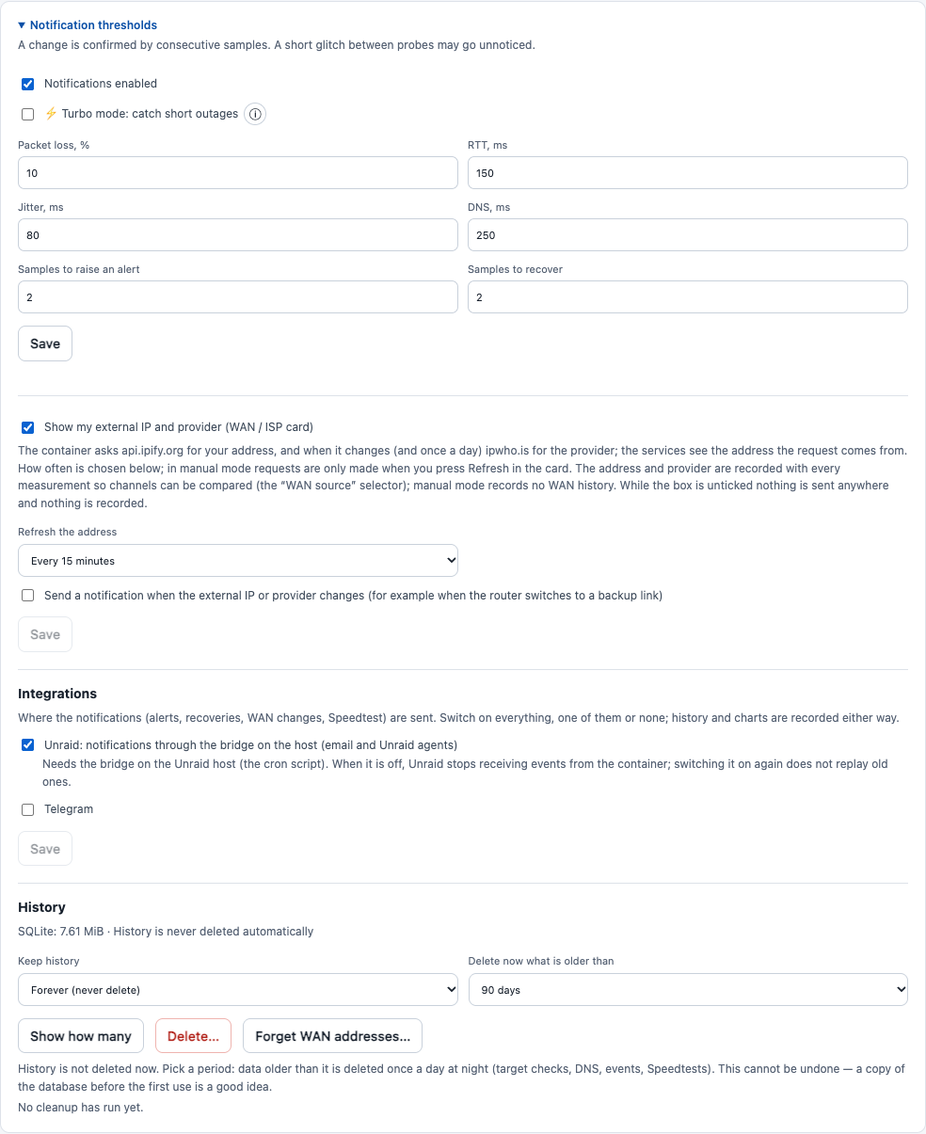
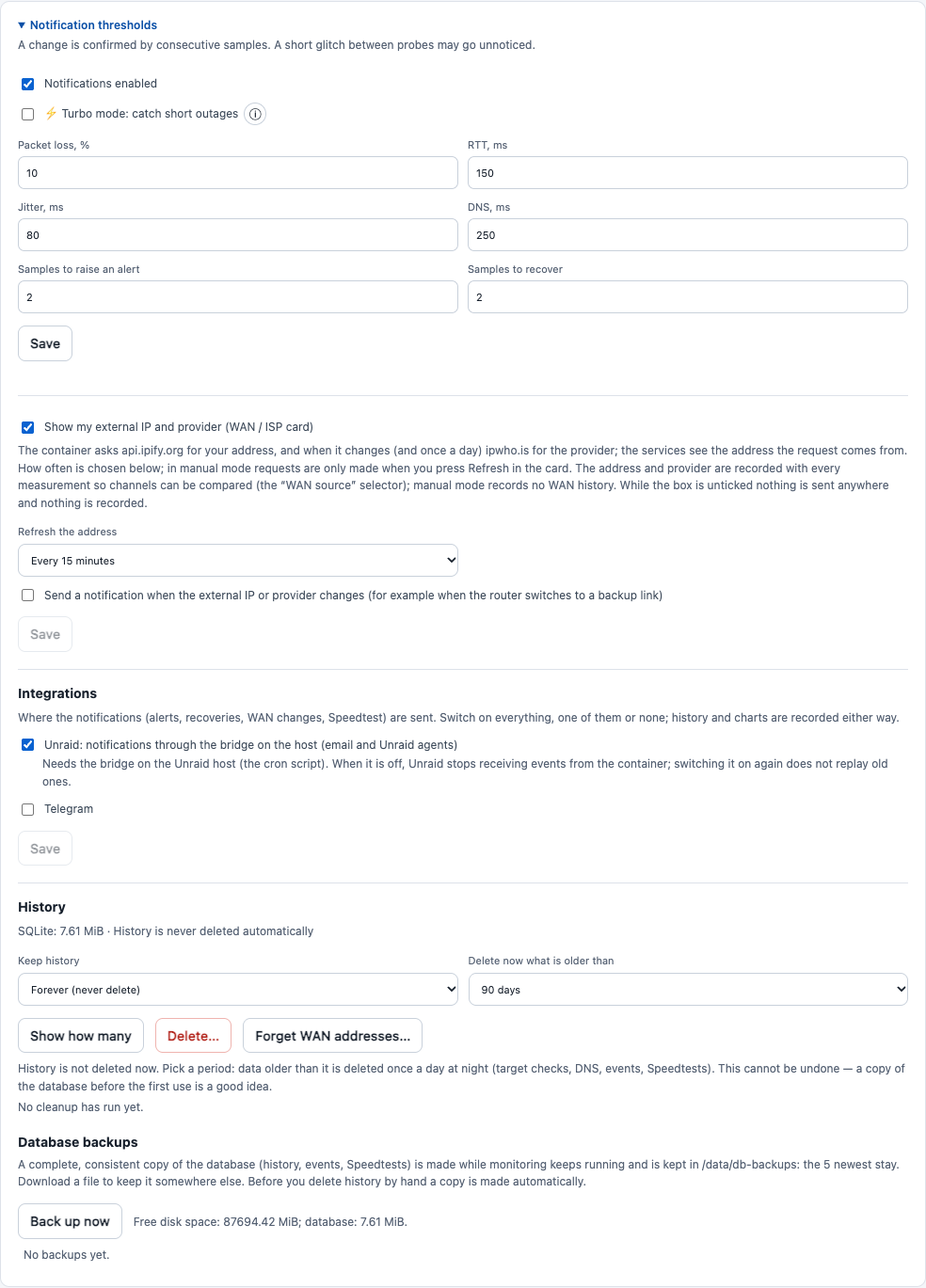
WAN source in the loss report and the compare chart, and a one-row phone menu
GET /api/loss takes wan_ip / wan_isp and always returns wan_sources (samples, samples with loss, average and peak per source for the
window, whatever the filter); the report shows that table, a click selects the source for the whole page. The Turbo outages are not
split by source, and the page says so. The compare chart gets "One line per WAN source": every picked series (summary or target)
is requested once per source (up to four) and drawn as its own line.

In the NetProbe style the pinned menu on a phone is one row now (the mark instead of the name, links in a row): about 47 px instead
of 88-100; the nav test checks that it stays under 64 px with every link visible. Tests and screenshots updated.

diff --git a/src/index.html b/src/index.html
@@ -187,8 +187,10 @@
     @media(max-width:1250px) { .metrics{grid-template-columns:repeat(3,minmax(0,1fr))} .grid-content{grid-template-columns:minmax(0,1fr) 305px} }
     /* phones and tablets: the menu bar stays pinned to the top (a block layout lets it stick for the whole page) */
     @media(max-width:930px) { html{scroll-padding-top:var(--stick-h,0px)} .layout{display:block} aside{position:sticky;top:0;z-index:30;height:auto;padding:13px 18px;flex-direction:row;align-items:center;justify-content:space-between} .brand{padding:0;font-size:16px} .brand small,.nav-head,.side-foot{display:none} nav{display:flex;flex-wrap:wrap} nav a{padding:7px 10px;font-size:12px} .nav-icon{display:none} main{padding:20px 16px} .grid-content{grid-template-columns:1fr} }
+    /* a phone: the pinned menu is one row (the name goes, the mark stays), so it takes ~56 px instead of ~100 */
+    @media(max-width:560px) { aside{padding:8px 12px;gap:8px} .brand{flex:0 0 auto} .brand>span:last-child{display:none} nav{flex-wrap:nowrap;justify-content:flex-end;min-width:0;overflow-x:auto;scrollbar-width:none} nav::-webkit-scrollbar{display:none} nav a{padding:6px 8px;white-space:nowrap} }
     @media(max-width:700px) { .path-row{grid-template-columns:1fr;gap:0} .link{grid-template-columns:auto 1fr;justify-items:start;align-items:center;gap:10px;padding:6px 0 6px 30px} .link-line{width:0;height:20px;border-top:0!important;border-left:2px dashed var(--unk);order:-1} .link[data-s="ok"] .link-line{border-left:2px solid var(--ok)} .link[data-s="warn"] .link-line{border-left-color:var(--warn)} .link[data-s="bad"] .link-line{border-left-color:var(--bad)} .link-cap{text-align:left} }
-    @media(max-width:560px) { .metrics{grid-template-columns:repeat(2,minmax(0,1fr));gap:9px} .metric{padding:15px} .metric-val{font-size:25px} .main-status{padding:16px;align-items:flex-start} .status-right{display:none} .card{padding:17px} .head h1{font-size:23px} .flex-tabs{max-width:100%;overflow-x:auto} .table{min-width:0} .table th:nth-child(3),.table td:nth-child(3){display:none} .metrics .metric:first-child{grid-column:span 2} .chart-select{width:100%} .head-actions .tag{max-width:100%;white-space:normal} .head-actions{width:100%} .setting-grid{gap:9px} .brand{margin-right:15px} aside{flex-wrap:wrap;gap:12px} nav a{padding:5px 8px} }
+    @media(max-width:560px) { .metrics{grid-template-columns:repeat(2,minmax(0,1fr));gap:9px} .metric{padding:15px} .metric-val{font-size:25px} .main-status{padding:16px;align-items:flex-start} .status-right{display:none} .card{padding:17px} .head h1{font-size:23px} .flex-tabs{max-width:100%;overflow-x:auto} .table{min-width:0} .table th:nth-child(3),.table td:nth-child(3){display:none} .metrics .metric:first-child{grid-column:span 2} .chart-select{width:100%} .head-actions .tag{max-width:100%;white-space:normal} .head-actions{width:100%} .setting-grid{gap:9px} }
 
     /* ===== Style "unifi": calm neutral palette, one blue accent, flat bordered cards, icon rail ===== */
     html[data-style="unifi"] {
@@ -542,6 +544,9 @@
           <div class="card-head"><div><h2 data-i18n="loss.title">Потери пакетов за период</h2><div class="card-sub" id="lossWindow"></div></div><label class="pick"><span data-i18n="loss.target">Цель</span><select id="lossTarget" class="chart-select"><option value="">…</option></select></label></div>
           <div class="loss-sum" id="lossSummary"></div>
           <div class="table-wrap"><table class="table"><thead><tr><th data-i18n="th.target2">Цель</th><th data-i18n="loss.th.samples">Проб</th><th data-i18n="loss.th.lossy">С потерями</th><th data-i18n="loss.th.avg">Средние / макс.</th><th data-i18n="loss.th.eps">Эпизодов</th></tr></thead><tbody id="lossTargets"><tr><td colspan="5" class="muted">…</td></tr></tbody></table></div>
+          <div id="lossWansBox" hidden><h3 class="loss-h" data-i18n="loss.wans">По WAN-источникам</h3>
+            <div class="table-wrap"><table class="table"><thead><tr><th data-i18n="wan.source">WAN-источник</th><th data-i18n="loss.th.samples">Проб</th><th data-i18n="loss.th.lossy">С потерями</th><th data-i18n="loss.th.avg">Средние / макс.</th></tr></thead><tbody id="lossWans"></tbody></table></div>
+            <p class="card-sub" data-i18n="loss.wansNote" style="margin:4px 0 0"></p></div>
           <h3 class="loss-h" data-i18n="loss.episodes">Эпизоды потерь</h3>
           <div class="loss-episodes" id="lossEpisodes"></div><div class="section-status" id="lossStatus" role="status"></div>
           <h3 class="loss-h" data-i18n="loss.outages">Короткие обрывы (Turbo)</h3>
@@ -627,7 +632,7 @@
       'tab.loss':'Потери','th.target2':'Цель','loss.goto':'Потери за период →','loss.title':'Потери пакетов за период','loss.target':'Цель','loss.all':'Все ping-цели','loss.avg':'Средние потери','loss.max':'Максимум','loss.lossy':'Проб с потерями','loss.eps':'Эпизодов',
       'loss.episodes':'Эпизоды потерь','loss.none':'Потерь за период нет','loss.noSamples':'Нет замеров за период','loss.unavailable':'Отчёт о потерях недоступен','loss.th.samples':'Проб','loss.th.lossy':'С потерями','loss.th.avg':'Средние / макс.','loss.th.eps':'Эпизодов',
       'loss.show':'показать на графике','loss.truncated':'Показаны последние {n} эпизодов; сводка учитывает все','loss.rowsCapped':'Период слишком велик: часть проб не обработана, отчёт неполный. Выберите период короче или одну цель.','loss.samples':'проб: {n}','loss.ofSamples':'из {n}','dur.s':'{n} с','dur.m':'{n} мин','dur.h':'{h} ч {m} мин',
-      'unit.ms':'мс','cmp.toggle':'Сравнение','cmp.summary':'Сводка (все цели)','cmp.ping':'Ping-цели','cmp.dns':'DNS-серверы','cmp.allDns':'Все DNS','cmp.clear':'Сбросить','cmp.selected':'Источники: {n}','cmp.none':'Для этого выбора нет доступных рядов','cmp.title':'Сравнение · рядов: {n}','cmp.sub':'Несколько метрик и целей на одном графике','cmp.sharedAxis':'Общая шкала, {u}','cmp.ownScale':'У каждого ряда своя шкала: 100% = максимум ряда за период (реальные значения — в легенде и подсказке)','cmp.max':'макс. {v}','cmp.capped':'Показаны первые {n} рядов','cmp.last':'сейчас',
+      'unit.ms':'мс','cmp.toggle':'Сравнение','cmp.byWan':'Одна линия на каждый WAN-источник','cmp.summary':'Сводка (все цели)','cmp.ping':'Ping-цели','cmp.dns':'DNS-серверы','cmp.allDns':'Все DNS','cmp.clear':'Сбросить','cmp.selected':'Источники: {n}','cmp.none':'Для этого выбора нет доступных рядов','cmp.title':'Сравнение · рядов: {n}','cmp.sub':'Несколько метрик и целей на одном графике','cmp.sharedAxis':'Общая шкала, {u}','cmp.ownScale':'У каждого ряда своя шкала: 100% = максимум ряда за период (реальные значения — в легенде и подсказке)','cmp.max':'макс. {v}','cmp.capped':'Показаны первые {n} рядов','cmp.last':'сейчас',
       'topbar.network':'Сеть','net.title':'Интернет','net.speedLink':'Speedtest','thr.title':'Пороги уведомлений','thr.configure':'Настроить',
       'up.title':'Работа интернета','up.uptime':'Uptime','up.tip':'Доля интервалов без сильных потерь/обрыва; интервалы без данных не учитываются','up.ok':'без потерь','up.warn':'были потери пакетов (до {v}%)','up.bad':'сильные потери или обрыв ({v}%)','up.gap':'нет данных',
       'chk.title':'Связность','chk.sub':'Доля успешных замеров за период','chk.bridge':'Мост Docker','chk.router':'Роутер','chk.internet':'Интернет','chk.dns':'DNS',
@@ -682,7 +687,7 @@
       'turbo.cost':'Цена: около 9 МБ ICMP-трафика в сутки и пара коротких процессов ping каждые 5 секунд.',
       'turbo.risk':'Риск ложных тревог: некоторые провайдеры ограничивают ICMP. Чтобы отсечь это, обрыв засчитывается, только если ВСЕ интернет-адреса не ответили два раунда подряд.',
       'turbo.default':'По умолчанию выключен. Настройка сохраняется и переживает перезапуск контейнера.',
-      'loss.outages':'Короткие обрывы (Turbo)','loss.noOutages':'Turbo-обрывов за период нет','out.internet':'Обрыв интернета','out.router':'Роутер не отвечал','out.open':'идёт сейчас',
+      'loss.outages':'Короткие обрывы (Turbo)','loss.wans':'По WAN-источникам','loss.wansNote':'Нажмите на строку, чтобы показать отчёт и графики только для этого источника. Короткие обрывы (Turbo) ниже не делятся по источникам.','loss.noOutages':'Turbo-обрывов за период нет','out.internet':'Обрыв интернета','out.router':'Роутер не отвечал','out.open':'идёт сейчас',
       'out.st.sent':'уведомление отправлено','out.st.pending':'ждёт отправки','out.st.covered':'тревога уже была от основного мониторинга','out.st.off':'уведомления выключены','out.st.capped':'лимит 3 в час','out.st.counted':'учтён в следующем сообщении','out.st.stopped':'Turbo выключен во время обрыва','out.st.open':'',
       'set.invalid':'Проверьте значения порогов.','set.saving':'Сохранение…','set.saved':'Сохранено на сервере.','set.notSaved':'Не сохранено: {e}','set.dirty':'Изменения ещё не сохранены.','set.storage':'SQLite: {mb} MiB · {ret}','set.noRetention':'Без автоматического удаления истории','set.retention':'Хранение: {d} дней','set.noStorage':'Хранилище: нет данных API',
       'diag.title':'Диагностика','diag.sub':'Логи и активные настройки NetProbe','diag.logs':'Логи приложения','diag.config':'Конфигурация (без секретов)','diag.logHint':'Для просмотра разверните раздел.','diag.noLines':'В текущем буфере нет строк.','diag.lastRead':'Последнее чтение · {when}','diag.logsUnavailable':'Логи недоступны · {e}','diag.configUnavailable':'Конфигурация API недоступна.',
@@ -693,7 +698,7 @@
       'tab.loss':'Loss','th.target2':'Target','loss.goto':'Packet loss report →','loss.title':'Packet loss in the period','loss.target':'Target','loss.all':'All ping targets','loss.avg':'Average loss','loss.max':'Peak','loss.lossy':'Samples with loss','loss.eps':'Episodes',
       'loss.episodes':'Loss episodes','loss.none':'No packet loss in this period','loss.noSamples':'No samples in this period','loss.unavailable':'Packet loss report unavailable','loss.th.samples':'Samples','loss.th.lossy':'With loss','loss.th.avg':'Average / peak','loss.th.eps':'Episodes',
       'loss.show':'show on chart','loss.truncated':'Showing the latest {n} episodes; the summary counts all of them','loss.rowsCapped':'The period is too long: some samples were not processed and the report is incomplete. Pick a shorter period or one target.','loss.samples':'samples: {n}','loss.ofSamples':'of {n}','dur.s':'{n} s','dur.m':'{n} min','dur.h':'{h} h {m} min',
-      'unit.ms':'ms','cmp.toggle':'Compare','cmp.summary':'Summary (all targets)','cmp.ping':'Ping targets','cmp.dns':'DNS servers','cmp.allDns':'All DNS','cmp.clear':'Clear','cmp.selected':'Sources: {n}','cmp.none':'No series are available for this selection','cmp.title':'Comparison · {n} series','cmp.sub':'Several metrics and targets on one chart','cmp.sharedAxis':'Shared scale, {u}','cmp.ownScale':'Each series has its own scale: 100% = the series maximum in the period (real values are in the legend and tooltip)','cmp.max':'max {v}','cmp.capped':'Showing the first {n} series','cmp.last':'now',
+      'unit.ms':'ms','cmp.toggle':'Compare','cmp.byWan':'One line per WAN source','cmp.summary':'Summary (all targets)','cmp.ping':'Ping targets','cmp.dns':'DNS servers','cmp.allDns':'All DNS','cmp.clear':'Clear','cmp.selected':'Sources: {n}','cmp.none':'No series are available for this selection','cmp.title':'Comparison · {n} series','cmp.sub':'Several metrics and targets on one chart','cmp.sharedAxis':'Shared scale, {u}','cmp.ownScale':'Each series has its own scale: 100% = the series maximum in the period (real values are in the legend and tooltip)','cmp.max':'max {v}','cmp.capped':'Showing the first {n} series','cmp.last':'now',
       'topbar.network':'Network','net.title':'Internet','net.speedLink':'Speedtest','thr.title':'Notification thresholds','thr.configure':'Configure',
       'up.title':'Internet performance','up.uptime':'Uptime','up.tip':'Share of intervals without heavy loss or an outage; intervals without data are ignored','up.ok':'no loss','up.warn':'packet loss (up to {v}%)','up.bad':'heavy loss or outage ({v}%)','up.gap':'no data',
       'chk.title':'Connectivity','chk.sub':'Share of successful samples in the period','chk.bridge':'Docker bridge','chk.router':'Router','chk.internet':'Internet','chk.dns':'DNS',
@@ -748,7 +753,7 @@
       'turbo.cost':'Cost: about 9 MB of ICMP traffic per day and a couple of short ping processes every 5 seconds.',
       'turbo.risk':'False-alarm risk: some ISPs rate-limit ICMP. To filter that out, an outage counts only when ALL internet addresses fail two rounds in a row.',
       'turbo.default':'Off by default. The setting is saved and survives container restarts.',
-      'loss.outages':'Short outages (Turbo)','loss.noOutages':'No Turbo outages in this period','out.internet':'Internet outage','out.router':'Router did not answer','out.open':'ongoing',
+      'loss.outages':'Short outages (Turbo)','loss.wans':'By WAN source','loss.wansNote':'Click a row to show the report and the charts for that source only. The short outages (Turbo) below are not split by source.','loss.noOutages':'No Turbo outages in this period','out.internet':'Internet outage','out.router':'Router did not answer','out.open':'ongoing',
       'out.st.sent':'notification sent','out.st.pending':'waiting to be sent','out.st.covered':'the regular monitor already alerted','out.st.off':'notifications disabled','out.st.capped':'3 per hour limit','out.st.counted':'counted in the next message','out.st.stopped':'Turbo was switched off during the outage','out.st.open':'',
       'set.invalid':'Check the threshold values.','set.saving':'Saving…','set.saved':'Saved on the server.','set.notSaved':'Not saved: {e}','set.dirty':'Changes are not saved yet.','set.storage':'SQLite: {mb} MiB · {ret}','set.noRetention':'History is never deleted automatically','set.retention':'Retention: {d} days','set.noStorage':'Storage: no API data',
       'diag.title':'Diagnostics','diag.sub':'NetProbe logs and active settings','diag.logs':'Application logs','diag.config':'Configuration (no secrets)','diag.logHint':'Expand the section to view.','diag.noLines':'The current buffer has no lines.','diag.lastRead':'Last read · {when}','diag.logsUnavailable':'Logs unavailable · {e}','diag.configUnavailable':'API configuration is unavailable.',
@@ -942,14 +947,20 @@
   /* ---------- compare mode ---------- */
   const unitOf = {avg_loss_pct:'%', avg_latency_ms:'ms', avg_jitter_ms:'ms', avg_dns_latency_ms:'ms', score:''};
   const MAX_SERIES = 10;
-  const cmpData = source => source === '' ? state.summary : state.charts.get(JSON.stringify([source, '', rangeKey(), wanKey()]))?.data;
+  /* "One line per WAN source": every picked series is drawn once per source (up to four) instead of using the single WAN selector. */
+  const overlayWans = () => wanSources().filter(x => x.wan_ip).slice(0, 4).map(x => [x.wan_ip, x.wan_isp || '']);
+  const byWanOn = () => state.cmp.byWan === true && overlayWans().length >= 2;
+  const wanCacheKey = (source, wan) => JSON.stringify([source, '', rangeKey(), wan ? 'w:' + wan.join('|') : wanKey()]);
+  const wanQuery = wan => `&wan_ip=${encodeURIComponent(wan[0])}&wan_isp=${encodeURIComponent(wan[1] || '')}`;
+  const cmpData = (source, wan = null) => !wan && source === '' ? state.summary : state.charts.get(wanCacheKey(source, wan))?.data;
   function cmpBuild() {
     const out = [];
-    for (const source of state.cmp.sources) for (const metric of state.cmp.metrics) {
+    const wans = byWanOn() ? overlayWans() : [null];
+    for (const source of state.cmp.sources) for (const metric of state.cmp.metrics) for (const wan of wans) {
       const key = source === '' ? metric : targetKeys[metric];
       if (!key) continue;
-      const data = cmpData(source) || [];
-      const label = (t(names[metric][0])) + ' · ' + (source === '' ? t('cmp.summary') : source);
+      const data = cmpData(source, wan) || [];
+      const label = (t(names[metric][0])) + ' · ' + (source === '' ? t('cmp.summary') : source) + (wan ? ' · ' + (wan[1] || wan[0]) : '');
       out.push({source, metric, key, unit: unitOf[metric], label, points: data.map(d => ({ts: d.ts, v: d[key]})).filter(d => numeric(d.ts)).sort((a, b) => a.ts - b.ts)});
     }
     return out;
@@ -957,13 +968,29 @@
   function cmpMenu() {
     const ping = state.targets.filter(x => x.kind !== 'dns'), dns = state.targets.filter(x => x.kind === 'dns');
     const opt = (value, label) => `<label class="cmp-opt"><input type="checkbox" data-cmp-target="${escape(value)}" ${state.cmp.sources.has(value) ? 'checked' : ''}><span>${escape(label)}</span></label>`;
-    $('cmpMenu').innerHTML = opt('', t('cmp.summary')) + `<div class="cmp-group"><span>${escape(t('cmp.ping'))}</span></div>` + ping.map(x => opt(x.target, x.target)).join('')
+    const byWanRow = overlayWans().length >= 2 ? `<label class="cmp-opt"><input type="checkbox" data-cmp-bywan ${state.cmp.byWan ? 'checked' : ''}><span>${escape(t('cmp.byWan'))}</span></label>` : '';
+    $('cmpMenu').innerHTML = byWanRow + opt('', t('cmp.summary')) + `<div class="cmp-group"><span>${escape(t('cmp.ping'))}</span></div>` + ping.map(x => opt(x.target, x.target)).join('')
       + `<div class="cmp-group"><span>${escape(t('cmp.dns'))}</span><span><button type="button" class="link-btn" data-cmp-action="alldns">${escape(t('cmp.allDns'))}</button> <button type="button" class="link-btn" data-cmp-action="clear">${escape(t('cmp.clear'))}</button></span></div>` + dns.map(x => opt(x.target, x.target)).join('');
     const picked = [...state.cmp.sources].map(x => x === '' ? t('cmp.summary') : x);
     $('cmpSummary').textContent = picked.length <= 2 ? picked.join(', ') : t('cmp.selected', {n: picked.length});
   }
   async function loadCompare() {
     const rk = rangeKey(), query = rq() + wanParam(), key = wanKey(), wanted = [...state.cmp.sources].filter(x => x !== '');
+    if (byWanOn()) {
+      const jobs = [];
+      for (const source of state.cmp.sources) for (const wan of overlayWans()) jobs.push([source, wan]);
+      await Promise.allSettled(jobs.map(async ([source, wan]) => {
+        try {
+          const url = source === '' ? `/api/history?${rq()}${wanQuery(wan)}` : `/api/targets/history?target=${encodeURIComponent(source)}&${rq()}${wanQuery(wan)}`;
+          const result = await api(url);
+          if (!Array.isArray(result.data)) throw new Error(t('err.badHistory'));
+          state.charts.set(wanCacheKey(source, wan), {data: result.data.slice().sort((a, b) => a.ts - b.ts)});
+          delete state.errors.chart;
+        } catch (e) { state.errors.chart = errorText(e); }
+      }));
+      if (state.cmp.on && rk === rangeKey()) { renderChart(); renderStatus(); }
+      return;
+    }
     await Promise.allSettled(wanted.map(async target => {
       try {
         const result = await api(`/api/targets/history?target=${encodeURIComponent(target)}&${query}`);
@@ -977,7 +1004,7 @@
   function setCompare(on) {
     state.cmp.on = on; $('diagnostics').dataset.compare = on ? '1' : '0'; $('compareToggle').setAttribute('aria-pressed', on ? 'true' : 'false');
     if (on) {
-      state.cmp.metrics = new Set([state.metric]); state.cmp.sources = new Set([state.target || '']);
+      state.cmp.metrics = new Set([state.metric]); state.cmp.sources = new Set([state.target || '']); state.cmp.byWan = false;
       cmpMenu(); loadCompare();
     } else { $('compareLegend').innerHTML = ''; $('axisNote').textContent = ''; $('chartTip').hidden = true; $('chartTip').innerHTML = ''; $('comparePicker').open = false; }
     renderChart();
@@ -988,7 +1015,7 @@
     $('chartTitle').textContent = t('cmp.title', {n: series.length}); $('chartSubtitle').textContent = t('cmp.sub'); $('seriesLabel').textContent = series.map(x => x.label).slice(0, 3).join(' · ') + (series.length > 3 ? ' …' : '');
     const pointsTotal = series.reduce((a, x) => a + x.points.length, 0);
     $('periodInfo').textContent = t('chart.points', {n: pointsTotal}) + (all.length > MAX_SERIES ? ' · ' + t('cmp.capped', {n: MAX_SERIES}) : '');
-    const loadedAll = [...state.cmp.sources].every(x => x === '' || state.charts.has(JSON.stringify([x, '', rangeKey(), wanKey()])));
+    const loadedAll = byWanOn() ? [...state.cmp.sources].every(x => overlayWans().every(w => state.charts.has(wanCacheKey(x, w)))) : [...state.cmp.sources].every(x => x === '' || state.charts.has(JSON.stringify([x, '', rangeKey(), wanKey()])));
     $('chartStatus').textContent = state.errors.chart ? t('chart.errPrefix', {kept: '', err: state.errors.chart}) : !loadedAll ? t('chart.loading') : '';
     const width = Math.max(300, svg.clientWidth || 900); svg.setAttribute('viewBox', `0 0 ${width} 250`); svg.dataset.metric = '';
     const vals = series.flatMap(x => x.points.map(p => p.v)).filter(numeric);
@@ -1224,6 +1251,9 @@
     $('lossEpisodes').innerHTML = r.episodes.length ? r.episodes.map((e, i) => `<button type="button" class="ep" data-episode="${i}" title="${escape(t('loss.show'))}"><span class="ep-ico" aria-hidden="true">${e.peak >= 50 ? '🔴' : '🟠'}</span><span class="ep-main">${escape(e.target)} · ${escape(when(e.start))}${e.end > e.start ? ' → ' + escape(hms(e.end)) : ''}</span><span class="ep-sub">${escape(e.end > e.start ? durText(e.duration) + ' · ' : '')}${escape(t('loss.samples', {n: e.samples}))} · ${escape(t('loss.show'))}</span><span class="ep-peak ${e.peak >= 50 ? 'bad' : ''}">${escape(pctText(e.peak))}</span></button>`).join('')
         + (state.lossRowsCapped ? `<div class="loss-empty">${escape(t('loss.rowsCapped'))}</div>` : '') + (state.lossTruncated ? `<div class="loss-empty">${escape(t('loss.truncated', {n: r.episodes.length}))}</div>` : '')
       : `<div class="loss-empty">${escape(s.samples ? '✅ ' + t('loss.none') : t('loss.noSamples'))}</div>`;
+    const wans = Array.isArray(r.wan_sources) ? r.wan_sources : [], known = wans.filter(x => x.wan_ip);
+    $('lossWansBox').hidden = !(state.prefs?.show_public_ip === true && (known.length > 1 || (known.length === 1 && wans.length > 1)));
+    $('lossWans').innerHTML = wans.map(x => { const sel = state.wanSel && wanSame([x.wan_ip || '', x.wan_isp || ''], state.wanSel); return `<tr class="${sel ? 'selected' : ''}"><td><button type="button" class="target-button host" data-loss-wan="${escape(JSON.stringify([x.wan_ip || '', x.wan_isp || '']))}">${escape(wanLabel(x.wan_ip, x.wan_isp))}</button></td><td>${x.samples}</td><td>${x.lossy ?? 0}</td><td>${escape(pctText(x.avg_loss))} / ${escape(pctText(x.max_loss))}</td></tr>`; }).join('');
     const outages = r.outages || [];
     $('lossOutages').innerHTML = outages.length ? outages.map(o => `<div class="ep outage"><span class="ep-ico" aria-hidden="true">${o.kind === 'router' ? '🔴' : '🟠'}</span><span class="ep-main">${escape(t(o.kind === 'router' ? 'out.router' : 'out.internet'))} · ${escape(when(o.start_ts))}${o.end_ts ? ' → ' + escape(hms(o.end_ts)) : ''}</span><span class="ep-sub">${escape([o.end_ts ? '' : t('out.open'), t('out.st.' + o.status)].filter(Boolean).join(' · '))}</span><span class="ep-peak ${o.kind === 'router' ? 'bad' : ''}">${escape(o.duration === null ? '…' : durText(o.duration))}</span></div>`).join('')
       : `<div class="loss-empty">${escape(t('loss.noOutages'))}</div>`;
@@ -1260,7 +1290,7 @@
       ['targets', '/api/targets/recent?' + query + wanParam(), r => { if (!Array.isArray(r.data)) throw bad(); state.targets = r.data; state.startedAt = r.started_at ?? state.startedAt; }],
       ['summary', '/api/history?' + query + wanParam(), r => { if (!Array.isArray(r.data)) throw bad(); state.summary = r.data; }],
       ['events', '/api/events?' + query, r => { if (!Array.isArray(r.data)) throw bad(); state.events = r.data; }],
-      ['loss', '/api/loss?' + query + (state.lossTarget ? '&target=' + encodeURIComponent(state.lossTarget) : ''), r => { if (!r.data || !Array.isArray(r.data.targets) || !Array.isArray(r.data.episodes)) throw bad(); state.loss = r.data; state.lossTruncated = Boolean(r.truncated); state.lossRowsCapped = r.data.rows_capped === true; }],
+      ['loss', '/api/loss?' + query + wanParam() + (state.lossTarget ? '&target=' + encodeURIComponent(state.lossTarget) : ''), r => { if (!r.data || !Array.isArray(r.data.targets) || !Array.isArray(r.data.episodes)) throw bad(); state.loss = r.data; state.lossTruncated = Boolean(r.truncated); state.lossRowsCapped = r.data.rows_capped === true; }],
       ...(state.win ? [['live', '/api/targets/recent?range=300', r => { if (!Array.isArray(r.data)) throw bad(); state.liveTargets = r.data; }]] : []),
       ['settings', '/api/settings', r => { if (!r.settings) throw bad(); state.settings = r.settings; state.storage = r.storage; state.turboAvailable = r.turbo_available; state.startedAt = r.started_at ?? state.startedAt; }],
       ['speed', '/api/speedtest/latest', r => { if (!Object.prototype.hasOwnProperty.call(r, 'result')) throw bad(); state.speed = r.result; }],
@@ -1338,6 +1368,9 @@
     const score = document.querySelector('#metricTabs [data-metric="score"]');
     if (score) { score.disabled = Boolean(state.wanSel); score.title = state.wanSel ? t('wan.noQuality') : ''; }
     if (state.wanSel && state.metric === 'score') state.metric = 'avg_loss_pct';
+    const avail = overlayWans().length >= 2;
+    if (state.cmp.on && avail !== state.cmpOverlayAvail) cmpMenu();   // the per-source option appears once there are two sources
+    state.cmpOverlayAvail = avail;
   }
   const saveSpeedChart = () => store('netprobe.speedchart', JSON.stringify({mode: state.speedMode, range: state.speedRange}));
   function saveFilters() { store(FILTERS_KEY, JSON.stringify({range: state.range, wan: state.wanSel, metric: state.metric})); }
@@ -1659,6 +1692,8 @@
   }));
   $('compareToggle').addEventListener('click', () => setCompare(!state.cmp.on));
   $('cmpMenu').addEventListener('change', event => {
+    const wanBox = event.target.closest('[data-cmp-bywan]');
+    if (wanBox) { state.cmp.byWan = wanBox.checked; cmpMenu(); loadCompare(); renderChart(); return; }
     const box = event.target.closest('[data-cmp-target]'); if (!box) return;
     if (box.checked) state.cmp.sources.add(box.dataset.cmpTarget); else if (state.cmp.sources.size > 1) state.cmp.sources.delete(box.dataset.cmpTarget); else box.checked = true;
     cmpMenu(); loadCompare(); renderChart();
@@ -1681,6 +1716,11 @@
   });
   $('rangeApply').addEventListener('click', applyCustomRange);
   $('lossTarget').addEventListener('change', () => { state.lossTarget = $('lossTarget').value; state.loss = null; renderLoss(); refresh(); });
+  $('lossWans').addEventListener('click', event => {
+    const b = event.target.closest('[data-loss-wan]'); if (!b) return;
+    const wan = JSON.parse(b.dataset.lossWan), index = (state.wanRows || []).findIndex(r => wanSame([r[0], r[1]], wan));
+    if (index >= 0) chooseWan(String(index)); else { state.wanSel = [wan[0], wan[1]]; saveFilters(); state.charts.clear(); renderWanPickers(); refresh(); }
+  });
   $('lossEpisodes').addEventListener('click', event => { const b = event.target.closest('[data-episode]'); if (b) zoomEpisode(Number(b.dataset.episode)); });
   $('lossTargets').addEventListener('click', event => { const b = event.target.closest('[data-loss-target]'); if (b) { state.lossTarget = b.dataset.lossTarget; state.loss = null; renderLoss(); refresh(); } });
   $('goLoss').addEventListener('click', () => { if (styleName === 'unifi') { openTab('loss'); $('unifiTabs').scrollIntoView({behavior: reduceMotion() ? 'auto' : 'smooth', block: 'start'}); } else $('lossCard').scrollIntoView({behavior: reduceMotion() ? 'auto' : 'smooth', block: 'start'}); });

diff --git a/src/netprobe_extensions.py b/src/netprobe_extensions.py
@@ -1976,17 +1976,25 @@ class Extension:
                 row["iso"] = datetime.fromtimestamp(row["ts"], timezone.utc).isoformat()
             return rows
 
-    def loss_report(self, seconds, end=None, target=None):
+    def loss_report(self, seconds, end=None, target=None, wan=None):
         """Packet-loss episodes per ping target in a window. An episode is a run of lossy samples
-        (loss > 0) that is not interrupted by a clean sample or by a gap longer than LOSS_GAP seconds."""
+        (loss > 0) that is not interrupted by a clean sample or by a gap longer than LOSS_GAP seconds.
+        wan = (address, provider) limits it to the samples one WAN source carried; `wan_sources` always lists how each
+        source fared in the window (the Turbo outages are not tied to a source)."""
         start, upper = self.window_bounds(seconds, end)
         sql = "SELECT target,ts,loss FROM np_targets WHERE kind='ping' AND loss IS NOT NULL AND ts>=? AND ts<=?"
         params = [start, upper]
         if target:
             sql += " AND target=?"
             params.append(target)
+        wan_sql, wan_params = self.wan_filter(wan)
         with self.db() as conn:
-            rows = conn.execute(sql + " ORDER BY target,ts LIMIT %d" % (LOSS_ROWS + 1), params).fetchall()
+            rows = conn.execute(sql + wan_sql + " ORDER BY target,ts LIMIT %d" % (LOSS_ROWS + 1), params + wan_params).fetchall()
+            by_wan = [dict(r) for r in conn.execute("""SELECT wan_ip, COALESCE(wan_isp,'') AS wan_isp, COUNT(*) AS samples, SUM(loss>0) AS lossy,
+                           AVG(loss) AS avg_loss, MAX(loss) AS max_loss, MIN(ts) AS first_ts, MAX(ts) AS last_ts
+                           FROM np_targets WHERE kind='ping' AND loss IS NOT NULL AND ts>=? AND ts<=?""" + (" AND target=?" if target else "")
+                                                       + " GROUP BY wan_ip, COALESCE(wan_isp,'') ORDER BY samples DESC",
+                                                       [start, upper] + ([target] if target else []))]
         rows_capped = len(rows) > LOSS_ROWS
         per, episodes = {}, []
         for row in rows[:LOSS_ROWS]:
@@ -2024,7 +2032,7 @@ class Extension:
         # `truncated`: the episode list was cut at LOSS_EPISODES. `rows_capped`: scanning stopped at LOSS_ROWS rows, so
         # later targets (alphabetically) are missing or partial -- the whole report is incomplete, not just the list.
         return dict(window=dict(**{"from": end_ts - seconds, "to": end_ts}), summary=summary, targets=targets,
-                    episodes=episodes[:LOSS_EPISODES], rows_capped=rows_capped,
+                    episodes=episodes[:LOSS_EPISODES], rows_capped=rows_capped, wan_sources=by_wan,
                     outages=self.outages(start, upper)), len(episodes) > LOSS_EPISODES
 
     def events(self, seconds, end=None):
@@ -2156,7 +2164,7 @@ def install_routes(app, ext):
     @app.get("/api/loss")
     def np_loss():
         seconds, end = window()
-        report, truncated = ext.loss_report(seconds, end, request.args.get("target") or None)
+        report, truncated = ext.loss_report(seconds, end, request.args.get("target") or None, wan_arg())
         return jsonify(data=report, truncated=truncated)
 
     def same_origin_request():

diff --git a/tests/test_wan_history.py b/tests/test_wan_history.py
@@ -252,6 +252,30 @@ class QueryTests(WanBase):
         self.assertEqual(data["current"], {"wan_ip": B[0], "wan_isp": B[1]})
         self.assertEqual(data["sources"][0]["last_ts"], max(s["last_ts"] for s in data["sources"]))
 
+    def test_the_loss_report_can_be_limited_to_one_wan_and_always_lists_how_each_fared(self):
+        everything = self.api("/api/loss").get_json()["data"]
+        self.assertEqual(everything["summary"]["samples"], 12)
+        by = {(w["wan_ip"], w["wan_isp"]): w for w in everything["wan_sources"]}
+        self.assertEqual(set(by), {(A[0], A[1]), (B[0], B[1]), (None, "")})
+        self.assertEqual((by[(A[0], A[1])]["samples"], by[(A[0], A[1])]["lossy"], by[(A[0], A[1])]["max_loss"]), (6, 2, 50))
+        self.assertEqual((by[(B[0], B[1])]["samples"], by[(B[0], B[1])]["lossy"], by[(B[0], B[1])]["max_loss"]), (4, 2, 10))
+        self.assertEqual((by[(None, "")]["samples"], by[(None, "")]["lossy"]), (2, 0))
+        self.assertAlmostEqual(by[(B[0], B[1])]["avg_loss"], 5.0)
+        only_a = self.api("/api/loss", wan_ip=A[0], wan_isp=A[1]).get_json()["data"]
+        self.assertEqual((only_a["summary"]["samples"], only_a["summary"]["lossy"], only_a["summary"]["max_loss"], only_a["summary"]["episodes"]), (6, 2, 50.0, 2))
+        only_b = self.api("/api/loss", wan_ip=B[0], wan_isp=B[1]).get_json()["data"]
+        self.assertEqual((only_b["summary"]["samples"], only_b["summary"]["max_loss"]), (4, 10.0))
+        self.assertTrue(all(e["peak"] == 10 for e in only_b["episodes"]), "episodes of the other source are not mixed in")
+        self.assertEqual(only_b["wan_sources"], everything["wan_sources"], "the breakdown does not depend on the filter")
+        unknown = self.api("/api/loss", wan_ip="").get_json()["data"]
+        self.assertEqual((unknown["summary"]["samples"], unknown["summary"]["lossy"], unknown["episodes"]), (2, 0, []))
+
+    def test_the_loss_breakdown_follows_the_chosen_target_and_bad_filters_are_refused(self):
+        one = self.api("/api/loss", target="google.com").get_json()["data"]
+        self.assertEqual(sum(w["samples"] for w in one["wan_sources"]), 6, "one target: half of the samples")
+        for bad in ({"wan_ip": "not-an-ip"}, {"wan_ip": A[0], "wan_isp": "x" * 121}):
+            self.assertEqual(self.api("/api/loss", **bad).status_code, 400)
+
     def test_targets_are_filtered_by_wan_with_their_own_statistics(self):
         everything = {r["target"]: r for r in self.api("/api/targets/recent").get_json()["data"]}
         only_a = {r["target"]: r for r in self.api("/api/targets/recent", wan_ip=A[0], wan_isp=A[1]).get_json()["data"]}

diff --git a/docs/API.md b/docs/API.md
@@ -20,7 +20,7 @@ Every history endpoint accepts either
 | `GET /api/targets/history?target=HOST[&address=IP]` | time-bucketed samples of one target (≤ 600 buckets): `ts`, `latency`, `jitter`, `loss`, `max_loss`, `address` |
 | `GET /api/history` | native aggregate rows (bucketed ≤ 600) with `max_loss_pct` and `dns_per_server` |
 | `GET /api/events` | latest 200 confirmed state changes: `ts`, `target`, `previous`, `state`, `reasons[]`, `metrics` |
-| `GET /api/loss[&target=HOST]` | packet-loss report: `data.summary` (`samples`, `lossy`, `avg_loss`, `max_loss`, `episodes`), `data.targets[]`, `data.episodes[]` (`target`, `start`, `end`, `duration`, `peak`, `avg`, `samples`; newest first, ≤ 100), `data.outages[]` (Turbo-mode outages overlapping the window: `id`, `start_ts`, `end_ts` (`null` while ongoing), `duration`, `kind` `internet`/`router`, `status` `open`/`pending`/`sent`/`covered`/`off`/`capped`/`counted`/`stopped`; newest first, ≤ 100) and `truncated` |
+| `GET /api/loss[&target=HOST]` | packet-loss report: `data.summary` (`samples`, `lossy`, `avg_loss`, `max_loss`, `episodes`), `data.targets[]`, `data.episodes[]` (`target`, `start`, `end`, `duration`, `peak`, `avg`, `samples`; newest first, ≤ 100), `data.outages[]` (Turbo-mode outages overlapping the window: `id`, `start_ts`, `end_ts` (`null` while ongoing), `duration`, `kind` `internet`/`router`, `status` `open`/`pending`/`sent`/`covered`/`off`/`capped`/`counted`/`stopped`; newest first, ≤ 100) and `truncated` Also `wan_ip` / `wan_isp` (limit the report to one WAN source; empty `wan_ip` = samples without a WAN) and `data.wan_sources`: `{wan_ip, wan_isp, samples, lossy, avg_loss, max_loss, first_ts, last_ts}` for every source in the window, whatever the filter (the Turbo `outages` are not split by source) |
 | `GET /api/export/targets.csv` | raw target samples as CSV (formula-injection safe, capped at 50 000 rows, `X-Export-Truncated` header) |
 | `GET /api/settings` | `{settings, storage, started_at}` |
 | `POST /api/settings` | partial update of `enabled`, `turbo` (booleans; the response also carries `turbo_available` — whether the watcher runs), `loss_pct`, `latency_ms`, `jitter_ms`, `dns_ms`, `confirm_samples`, `recovery_samples`; strict validation (unknown / null / blank / non-finite → `400`); same-origin browser requests with header `X-NetProbe-Request: settings` only |

diff --git a/README.md b/README.md
@@ -59,6 +59,10 @@ bind-mounted read-only over it. Removing the mounts brings the stock NetProbe ba
   `/data/telegram.json` (mode 600), is never shown again by the UI or the API, and can instead be given to the container as
   `TELEGRAM_BOT_TOKEN` / `TELEGRAM_CHAT_ID`. Messages from before it was switched on are not sent; a failed delivery is
   retried with a growing pause and given up after a day.
+- **The loss report and the compare chart know the WAN source.** The *WAN source* choice also limits the *Packet loss* report, and a
+  table in it shows how each source fared (probes, probes with loss, average / maximum; a click selects that source). In the compare
+  chart *One line per WAN source* draws every picked series once per source — for example the loss of the summary through your main
+  link and through the backup on one plot. The pinned menu on a phone is a single row now (about 47 px instead of 90–100).
 - **A message when the WAN changes.** Optional (*Send a notification when the external IP or provider changes*): one
   Unraid message with before and now — a warning when the provider changed (typically a switch to a backup link), an
   information message when only the address changed — confirmed by two checks in a row, at most 6 per hour.
@@ -98,6 +102,10 @@ bind-mounted read-only over it. Removing the mounts brings the stock NetProbe ba
 
 ![The chart for one WAN source](docs/screenshots/wan-chart.png)
 
+![Packet loss by WAN source](docs/screenshots/loss-by-wan.png)
+
+![Compare: one line per WAN source](docs/screenshots/wan-compare.png)
+
 ![Speedtest: service, schedule and notifications](docs/screenshots/speedtest-schedule.png)
 
 ![Speedtest chart: speed](docs/screenshots/speedtest-chart.png)
@@ -109,6 +117,8 @@ bind-mounted read-only over it. Removing the mounts brings the stock NetProbe ba
 On a phone the menu bar stays pinned to the top while the page scrolls:
 
 ![Pinned menu on a phone](docs/screenshots/mobile-menu-pinned.png)
+
+![The one-row menu in the NetProbe style](docs/screenshots/mobile-netprobe-menu.png)
 
 ## How it works
 

diff --git a/README.ru.md b/README.ru.md
@@ -51,6 +51,10 @@
   смена WAN, результаты Speedtest) — вместе с мостом Unraid или без него. Токен хранится в `/data/telegram.json` (права 600),
   интерфейс и API его больше не показывают; можно передать его переменными `TELEGRAM_BOT_TOKEN` / `TELEGRAM_CHAT_ID`. Сообщения,
   созданные до включения, не отправляются; неудачная доставка повторяется с растущей паузой и бросается через сутки.
+- **Отчёт о потерях и сравнение знают про WAN-источник.** Выбор «WAN-источник» ограничивает и отчёт о потерях, а таблица в нём
+  показывает, как показал себя каждый источник (проб, проб с потерями, среднее / максимум; клик выбирает источник). В сравнении
+  пункт «Одна линия на каждый WAN-источник» рисует каждую выбранную серию по разу на источник — например потери сводки через
+  основной канал и через резервный на одном графике. Закреплённое меню на телефоне — одна строка (около 47 px вместо 90–100).
 - **Уведомление о смене WAN.** По желанию: одно сообщение Unraid «было → стало» — предупреждение при смене провайдера
   (обычно переключение на резервный канал), информационное при смене только адреса; подтверждается двумя проверками подряд,
   не более 6 в час.

diff --git a/CHANGELOG.md b/CHANGELOG.md
@@ -5,6 +5,10 @@ The project is called **Internet Health** (formerly “Internet Pulse” in 1.0.
 
 ## Unreleased
 
+- **WAN source in the loss report and in the compare chart.** `GET /api/loss` accepts `wan_ip` / `wan_isp` and returns `wan_sources` (how each source
+  fared in the window); the report shows that table, clicking a row selects the source. The compare chart gets *One line per WAN source*
+  (up to four sources; every picked series is drawn once per source).
+- **A compact pinned menu on phones** in the NetProbe style: one row (the mark instead of the name), about 47 px instead of 90–100.
 - **Database backups from the page** (Settings → *History*): *Back up now* makes a complete, consistent copy while monitoring keeps running
   (`VACUUM INTO`, a background job, refused when the disk is too full) in `/data/db-backups`, keeps the 5 newest, and lists them with
   *Download* and *Delete*. Deleting history by hand makes a copy first and stops if that fails. `GET/POST /api/backups`,
